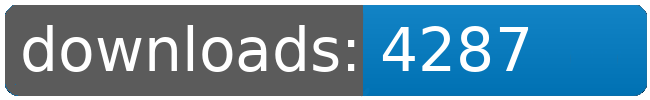
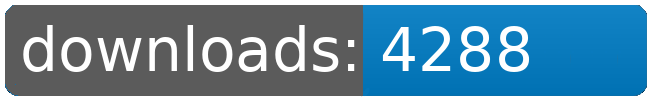
dl log written

Changed region(s): [[0.7692, 0.24, 0.8308, 0.72]]

diff --git a/README.md b/README.md
@@ -54,8 +54,8 @@
 		<td>4238</td>
 		<td>4258</td>
 		<td>4273</td>
-		<td>4287</td>
-		<td>+ 14</td>
+		<td>4288</td>
+		<td>+ 15</td>
 	</tr>
 	<tr>
 		<td>Korunak.Defense.Drones</td>
@@ -109,8 +109,8 @@
 		<td></td>
 		<td></td>
 		<td></td>
-		<td>36523</td>
-		<td>109</td>
+		<td>36524</td>
+		<td>110</td>
 	</tr>
 </table>
 </sub></sup>
@@ -201,8 +201,8 @@
 		<td>4238</td>
 		<td>4258</td>
 		<td>4273</td>
-		<td>4287</td>
-		<td>+ 14</td>
+		<td>4288</td>
+		<td>+ 15</td>
 	</tr>
 	<tr>
 		<td>Zone.of.Control</td>
@@ -223,8 +223,8 @@
 		<td></td>
 		<td></td>
 		<td></td>
-		<td>36523</td>
-		<td>109</td>
+		<td>36524</td>
+		<td>110</td>
 	</tr>
 </table>
 </sub></sup>
